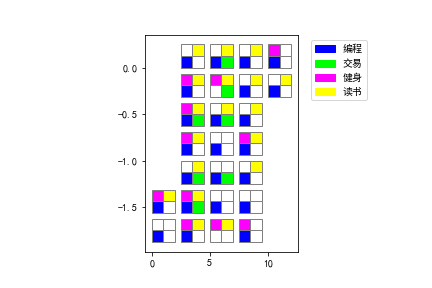
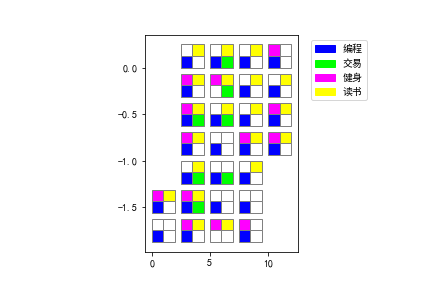
+ Update daily calendar

Changed region(s): [[0.6019, 0.3438, 0.6921, 0.5625]]

diff --git a/bodybuiding.md b/bodybuiding.md
@@ -5,7 +5,12 @@
   * https://weibo.com/5615345989/Lt0otj3YJ
 * 图文精选
   * https://weibo.com/5615345989/Lt0zW218C
-
+* 為什麼你增肌慢，效果不明顯？ 95%的人是因為這幾個原因【Erik埃里克】 - YouTube
+  * https://www.youtube.com/watch?v=pFX5kKGXytg
+* 不同体型的瘦子，分别应该怎么增重？【卓叔】_哔哩哔哩_bilibili
+  * https://www.bilibili.com/video/BV12L411A7TC
+* 【卓叔】瘦子增重怎么吃，吃多少？【增重科普07】_哔哩哔哩_bilibili
+  * https://www.bilibili.com/video/BV1DA41187af
 
 # 个人训练方案
 
@@ -18,8 +23,12 @@
 
 ## 3+6：肩+腹肌
 * 肩膀中束：侧平举，3组12次（图1-5）
-  * 细节：胸部靠于60度斜板，虎口朝前
   * https://www.youtube.com/watch?v=BAzuViFRy9E
+  * https://www.youtube.com/watch?v=Lt1AsayzFUc
+    * 小重量，大次数，组间休息30秒
+    * 平常体态，挺胸，避免驼背
+    * 不要过度夹紧肩胛骨，做好沉肩即可
+    * 大臂往身体前30度，符合肩胛平面
 * 腹肌：卷腹，3组10-15次
 
 ## 5+7：背+肱三头肌
@@ -33,6 +42,14 @@
 
 ## 臀+腿
 * 臀桥：3组10次
-* 爬楼：1-15层，10趟
+* × 爬楼：1-15层，10趟
+  * 瘦子增肌更需热量，应少做有氧
 
 # 个人饮食计划
+
+## 公式
+* 一日六餐
+* 蛋白质：1.8g/kg * 45kg = 81g
+* 碳水：8g/kg * 45kg = 360g
+  * 一桶泡面：80g*55/100 = 44g
+  * https://www.zhihu.com/question/468607122
